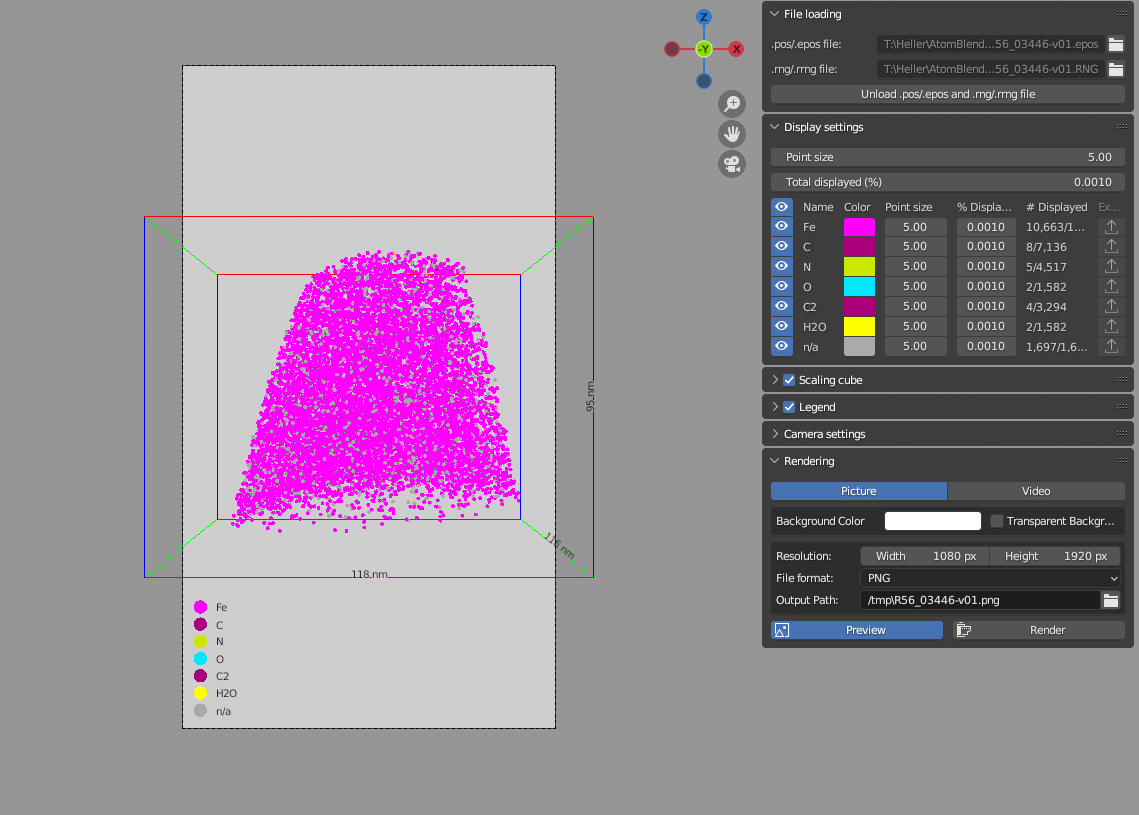
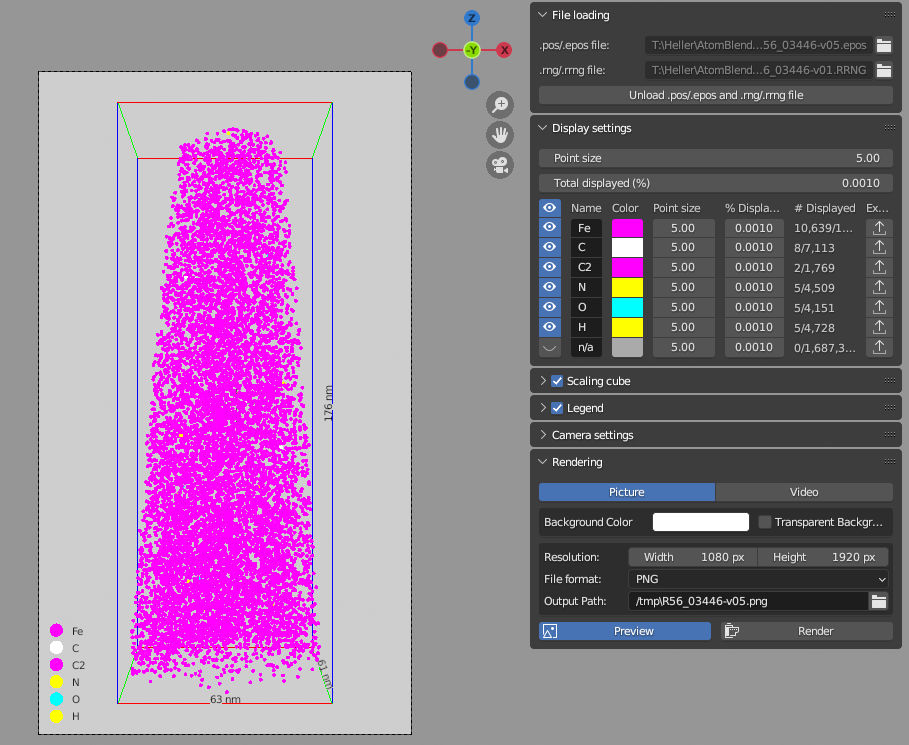
readme update: ui element name change

diff --git a/ui.py b/ui.py
@@ -394,10 +394,10 @@ class AB_properties(bpy.types.PropertyGroup):
     dev_automatic_file_loading: bpy.props.BoolProperty(name='Automatic file loading', default=False)
     dev_dataset_selection: bpy.props.EnumProperty(
         name='Dataset Selection',
-        items=[('T:\Heller\AtomBlendII\EisenKorngrenze\R56_03446-v01', 'Eisenkorngrenze', 'Eisenkorngrenze'),
+        items=[('T:\Heller\AtomBlendII\EisenKorngrenze\R56_03446-v05', 'Eisenkorngrenze', 'Eisenkorngrenze'),
                ('T:\Heller\AtomBlendII\Data for iso-surface\R56_02476-v03', 'IsoSurface', 'IsoSurface')
         ],
-        default='T:\Heller\AtomBlendII\EisenKorngrenze\R56_03446-v01',
+        default='T:\Heller\AtomBlendII\EisenKorngrenze\R56_03446-v05',
         # default='T:\Heller\AtomBlendII\Data for iso-surface\R56_02476-v03',
     )
 

diff --git a/README.md b/README.md
@@ -33,7 +33,7 @@ In this menu the appearance of the atom tip can be changed. You can hide specifi
 
 <b>The following lines describe the data for every element</b><br/>
 `Hide/Display icon` - Hides or displays the element<br/>
-`Name` - The name of the element (can not be changed)<br/>
+`Name` - The name of the element<br/>
 `Color` - The color of this element<br/>
 `Point size` - The point size of this element<br/>
 `% Displayed` - The displayed percentage of this element<br/>
